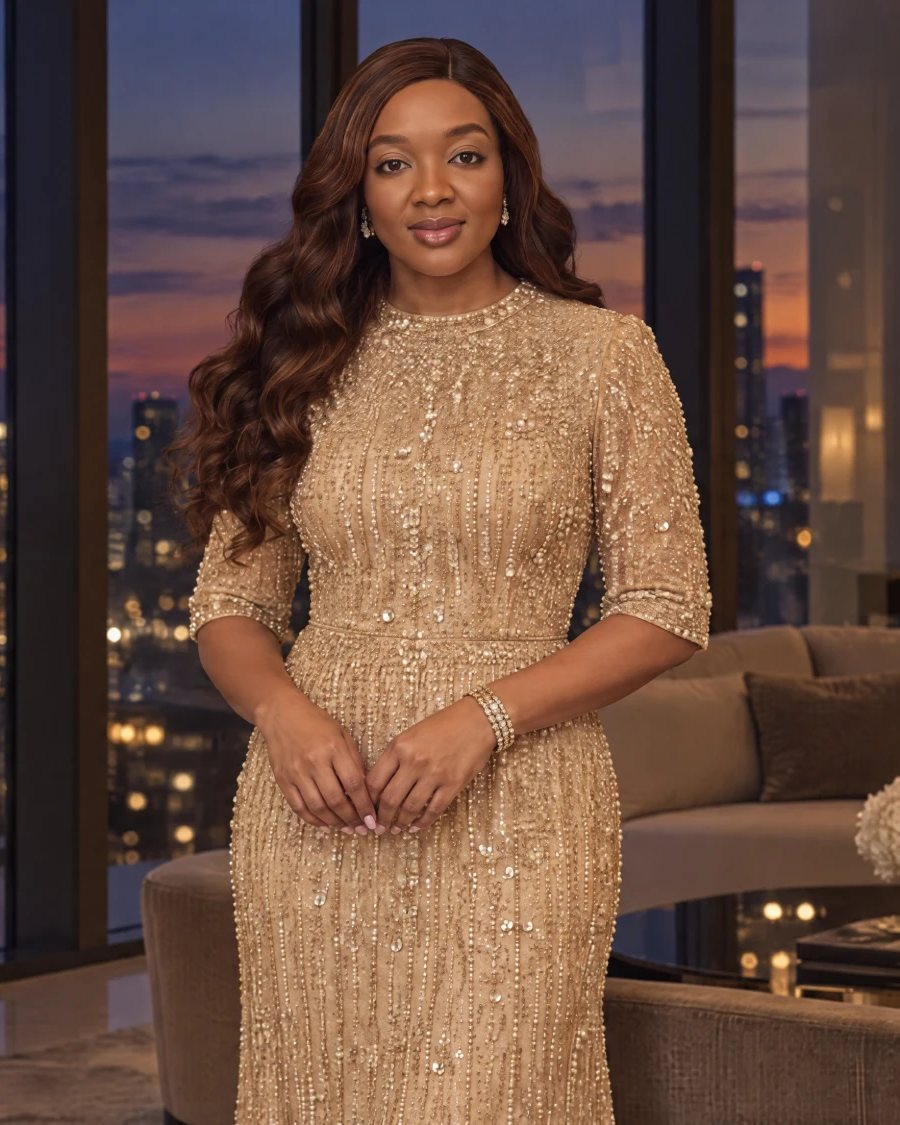
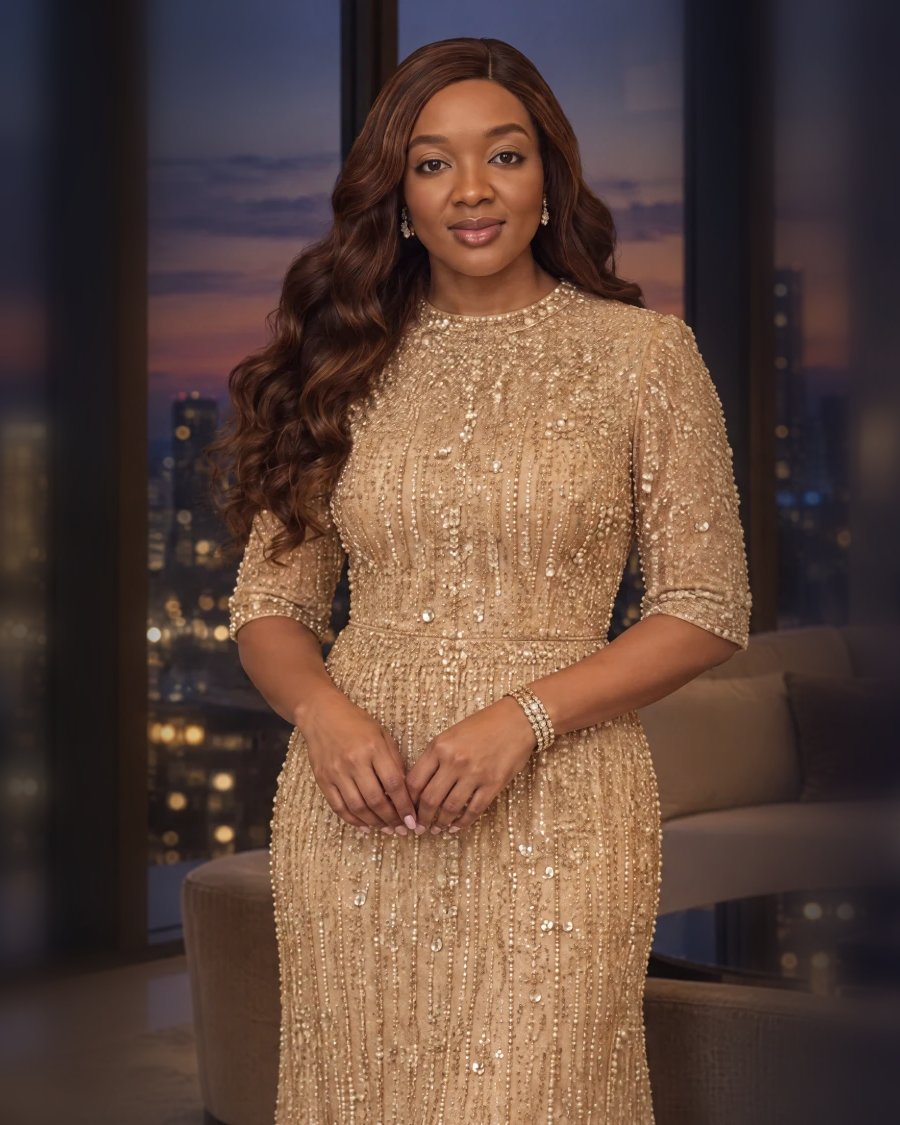
Hero: calmer background (furniture and skyline softened in the image), quieter text side, lighter paragraph and buttons

diff --git a/css/site.css b/css/site.css
@@ -460,3 +460,12 @@ section{padding-block:clamp(80px,11vw,140px)}
 @media (max-width:820px){.kids .row .btn{flex:1 1 auto;justify-content:center}}
 .btn-teal{background:linear-gradient(180deg,#5FE0CF,#1FA396);color:#07223A;padding:1.15rem 2.3rem;font-size:.84rem;box-shadow:0 18px 40px -14px rgba(95,224,207,.85),0 0 0 4px rgba(255,255,255,.18)}
 .btn-teal:hover{background:linear-gradient(180deg,#7BEBDC,#26B5A6);transform:translateY(-3px);box-shadow:0 24px 46px -14px rgba(95,224,207,1),0 0 0 4px rgba(255,255,255,.28)}
+
+/* Calmer hero: the photograph itself is now soft around her; the gradient only needs to settle the text side */
+.hero-wide::before{background:linear-gradient(90deg,rgba(8,14,44,.7) 0%,rgba(8,14,44,.5) 30%,rgba(8,14,44,.14) 52%,rgba(8,14,44,0) 64%),linear-gradient(180deg,rgba(8,14,44,0) 0%,rgba(8,14,44,0) 72%,rgba(8,14,44,.7) 100%)}
+.hero-light .gold{opacity:.4}.hero-light .teal{opacity:.35}
+.hero .support{font-size:.94rem;max-width:28rem;color:rgba(250,246,236,.8)}
+.hero .row .btn{padding:.92rem 1.7rem;font-size:.74rem}
+.hero .statement{margin-top:2.2rem}
+.hero-wide .nowpill{margin-top:1.3rem;padding:.4rem .45rem .4rem .95rem;background:rgba(8,14,44,.6)}
+.hero-wide .nowpill .np-title{font-size:1.1rem}

diff --git a/index.html b/index.html
@@ -22,7 +22,7 @@
 <link rel="preconnect" href="https://fonts.googleapis.com">
 <link rel="preconnect" href="https://fonts.gstatic.com" crossorigin>
 <link rel="stylesheet" href="https://fonts.googleapis.com/css2?family=Cormorant+Garamond:ital,wght@0,500;0,600;1,500&family=Karla:wght@400;600;700&family=Pinyon+Script&display=swap">
-<link rel="stylesheet" href="css/site.css?v=26">
+<link rel="stylesheet" href="css/site.css?v=27">
 </head>
 <body>
 <a class="skiplink" href="#main">Skip to content</a>
@@ -240,6 +240,6 @@
   <div class="bar" id="p-bar" role="slider" aria-label="Preview progress" aria-valuemin="0" aria-valuemax="100" aria-valuenow="0" tabindex="0"><i id="p-fill"></i></div>
 </div>
 <audio id="audio" preload="none"></audio>
-<script src="js/site.js?v=26" defer></script>
+<script src="js/site.js?v=27" defer></script>
 </body>
 </html>

diff --git a/music.html b/music.html
@@ -22,7 +22,7 @@
 <link rel="preconnect" href="https://fonts.googleapis.com">
 <link rel="preconnect" href="https://fonts.gstatic.com" crossorigin>
 <link rel="stylesheet" href="https://fonts.googleapis.com/css2?family=Cormorant+Garamond:ital,wght@0,500;0,600;1,500&family=Karla:wght@400;600;700&family=Pinyon+Script&display=swap">
-<link rel="stylesheet" href="css/site.css?v=26">
+<link rel="stylesheet" href="css/site.css?v=27">
 </head>
 <body>
 <a class="skiplink" href="#main">Skip to content</a>
@@ -269,6 +269,6 @@
   <div class="bar" id="p-bar" role="slider" aria-label="Preview progress" aria-valuemin="0" aria-valuemax="100" aria-valuenow="0" tabindex="0"><i id="p-fill"></i></div>
 </div>
 <audio id="audio" preload="none"></audio>
-<script src="js/site.js?v=26" defer></script>
+<script src="js/site.js?v=27" defer></script>
 </body>
 </html>

diff --git a/tools/build.py b/tools/build.py
@@ -11,7 +11,7 @@ IC = json.load(open('data/icons.json'))
 REL = {r['id']: r for r in cat['releases']}
 SONGS = cat['songs']
 e = html.escape
-V = "26"  # bump to refresh cached css/js
+V = "27"  # bump to refresh cached css/js
 
 SITE = 'https://www.funkieteemusic.com/'
 YT = 'https://www.youtube.com/@Funkieteemusic'
